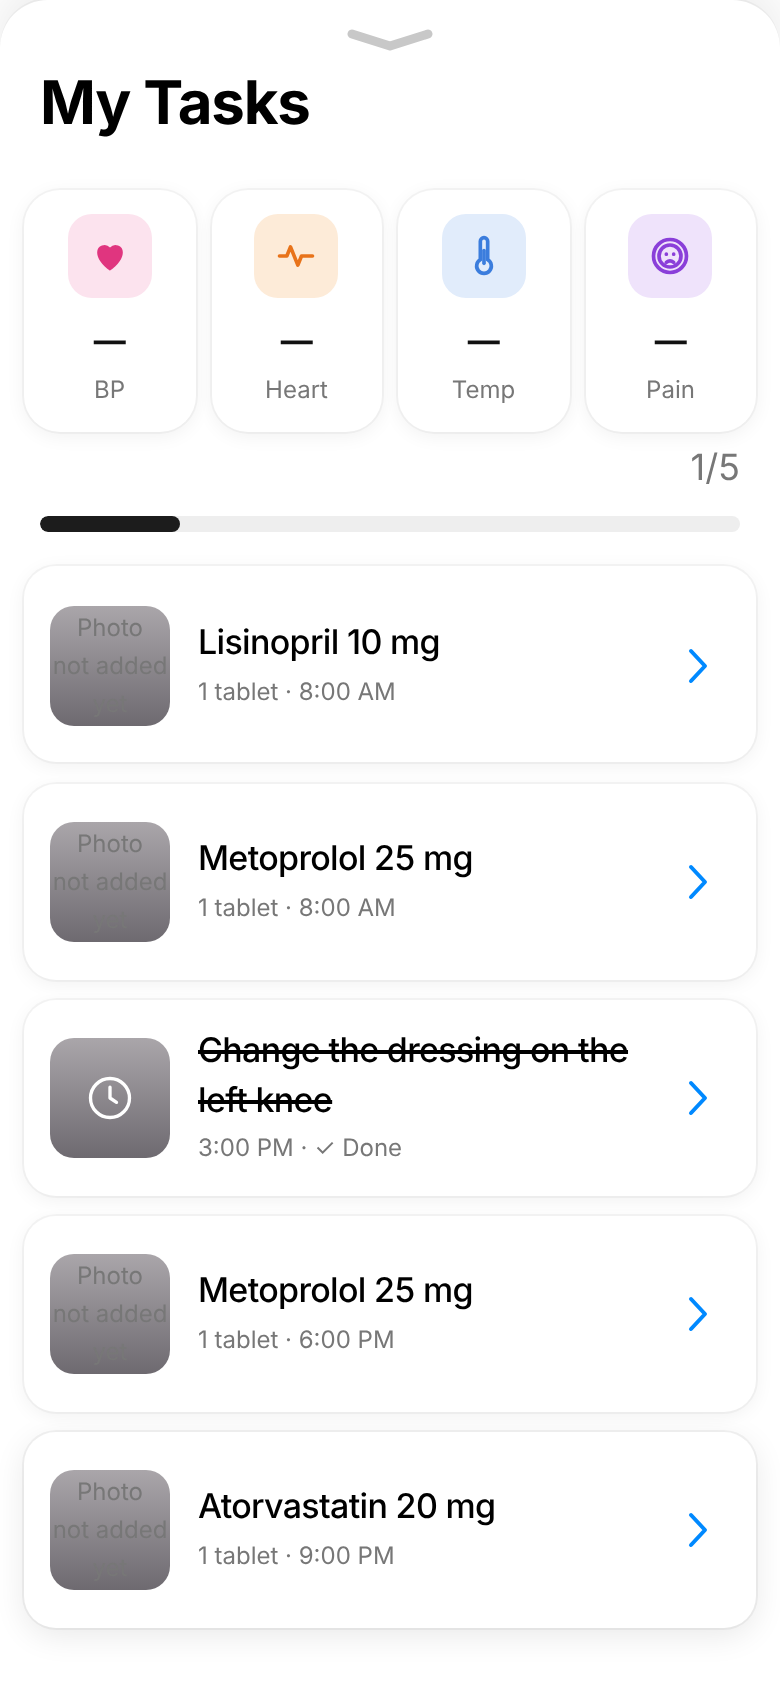
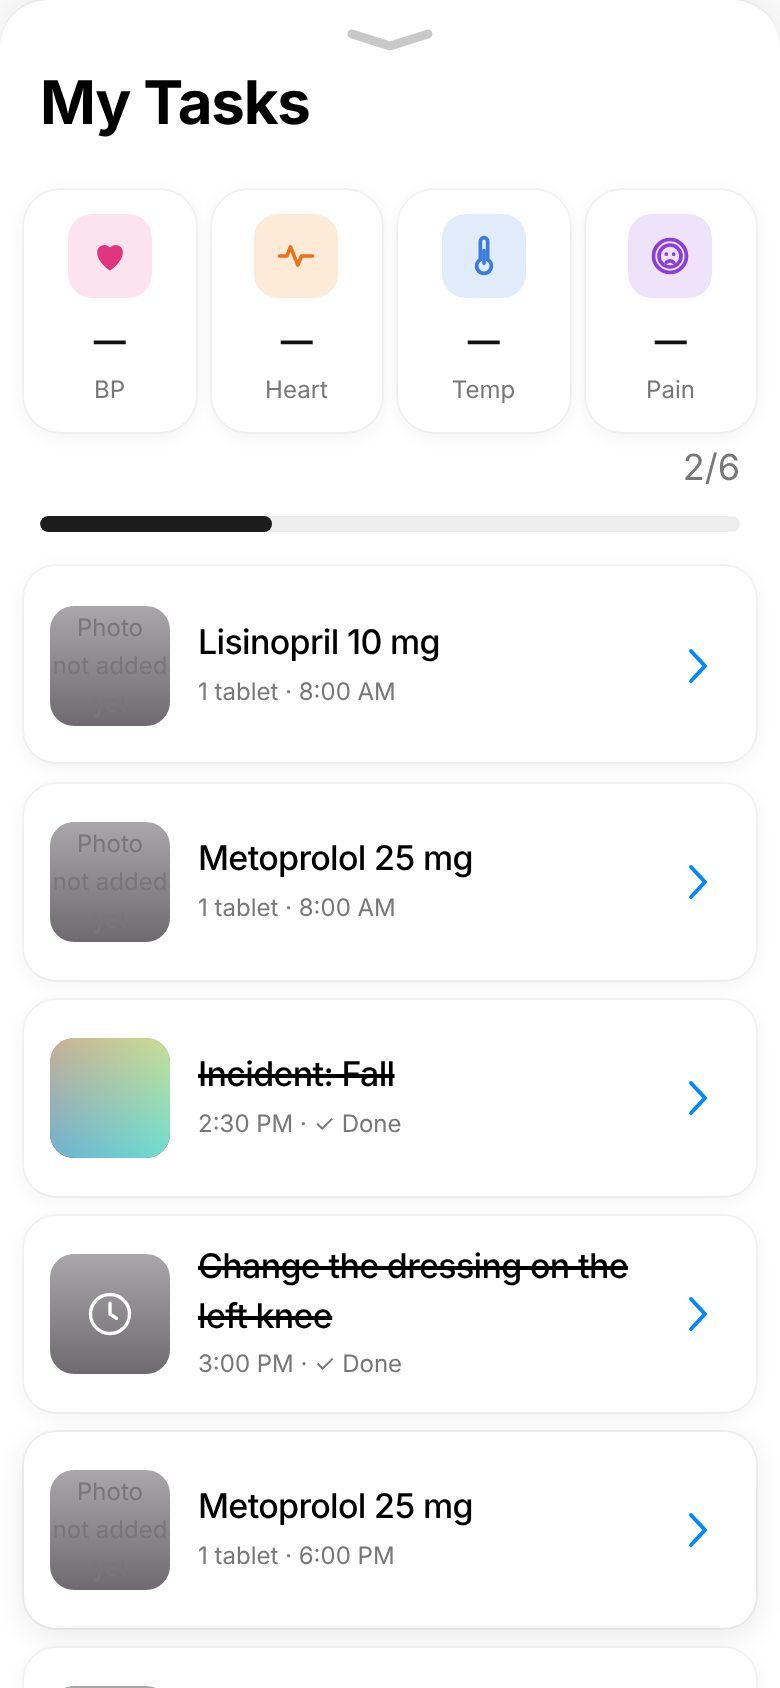
Step 5: + at the top right, witnesses, incidents in My Tasks
George's changes: the + sits at the top right of My Tasks with the title
on the left. The incident form gets Witnesses (name and optional phone,
added with a +), shown in the daily care report. A reported incident
shows in My Tasks on its day at its time, crossed off as done; tapping it
opens the report. Its photos are a post in Photos.

Claude-Session: https://claude.ai/code/session_01E2FP2TgKsd54SUu6FZRJ73

diff --git a/plus.js b/plus.js
@@ -1,9 +1,9 @@
-/* The + at the far left of the My Tasks title line, like Instagram's: a new task or an incident, for the family on screen
+/* The + at the top right of My Tasks, across from its title: a new task or an incident, for the family on screen
    (each family's plan is its own, so a caregiver on several families adds it to the patient they're looking at). Only people
    allowed to add tasks or report incidents see it; the server checks it too (server/permissions.js).
    A new task: what to do, an optional note and photo, the date and exact time, once or repeating (every day, chosen days or
    every week), from today up to one year ahead. It shows in My Tasks on its days at its time and is done on the Take page with
-   the same Done or Skip, note and photos. An incident: what happened, when, a note, photos and who was told, with Call 911 on
+   the same Done or Skip, note and photos. An incident: what happened, when, a note, photos, witnesses and who was told, with Call 911 on
    the form. Both show in the daily care report, numbered and time-stamped, with who added them. Uses the Take card's blocks. */
 const PLUS_PHOTOS=3,YEAR_AHEAD=365;
 const TASK_DAYS=['Sun','Mon','Tue','Wed','Thu','Fri','Sat'];
@@ -25,10 +25,13 @@ if(t.repeat==='daily')return 'Every day'+at+until;
 if(t.repeat==='weekly')return 'Every '+C.parseDate(t.date).toLocaleDateString('en-US',{weekday:'long'})+at+until;
 return [...(t.days||[])].sort().map(d=>TASK_DAYS[d]).join(', ')+at+until}
 
-/* Today's tasks from the +, at their time among the doses and visits. */
+/* Today's tasks from the +, at their time among the doses and visits, and each incident reported that day at the time it
+   happened, crossed off as done like a finished task. */
 const todayTasksBeforePlus=todayTasks;
+const clockOf=t=>{const d=new Date(t);return String(d.getHours()).padStart(2,'0')+':'+String(d.getMinutes()).padStart(2,'0')};
 todayTasks=function(list=items,day=today()){const tasks=todayTasksBeforePlus(list,day);
 for(const t of list.filter(i=>i.task&&taskOn(i,day))){const m=markOf(t,day,'task');tasks.push({item:t,key:'task',time:t.time||'',title:t.name,sub:t.note||'',state:m?m.kind:''})}
+for(const i of list.filter(i=>i.incident&&onDay(i.at,day)))tasks.push({item:i,key:'incident',time:clockOf(i.at),title:'Incident: '+i.name,sub:i.note||'',state:'done'});
 return tasks.sort((a,b)=>(a.time||'99')<(b.time||'99')?-1:(a.time||'99')>(b.time||'99')?1:0)};
 /* A task's photo on its card and Take page, or the clock when it has none. */
 const taskPhoto=i=>i.photos&&i.photos.length?`<div class="product-photo">${proofImg(i.photos[0])}</div>`:`<div class="product-photo today-icon">${icon('clock')}</div>`;
@@ -47,18 +50,20 @@ reportEntries=function(list=items,day=today(),vitalsLog){const out=reportEntries
 for(const t of list.filter(i=>i.task)){const by=t.by?['Added by '+t.by]:[];
 if(onDay(t.addedAt,day))out.push({title:'New task: '+t.name,at:t.addedAt,note:t.note||'',details:[repeatText(t),...by],name:t.name,photos:t.photos||[]});
 for(const m of (t.marks||[]).filter(m=>m.key==='task'&&m.day===day&&m.at))out.push({title:`${t.name} (${t.time?shortClock(t.time)+' task':'task'})${m.kind==='skipped'?' skipped':''}`,at:m.at,note:m.note||'',details:by,name:t.name,photos:m.photos||[]})}
-for(const i of list.filter(i=>i.incident&&onDay(i.at,day)))out.push({title:'Incident: '+i.name,at:i.at,note:i.note||'',details:[i.told?'Told: '+i.told:'',i.by?'Reported by '+i.by:''].filter(Boolean),name:'Incident: '+i.name,photos:i.photos||[]});
+for(const i of list.filter(i=>i.incident&&onDay(i.at,day)))out.push({title:'Incident: '+i.name,at:i.at,note:i.note||'',details:[(i.witnesses||[]).length?'Witnesses: '+i.witnesses.map(w=>w.name+(w.phone?' '+w.phone:'')).join(', '):'',i.told?'Told: '+i.told:'',i.by?'Reported by '+i.by:''].filter(Boolean),name:'Incident: '+i.name,photos:i.photos||[]});
 return out.sort((x,y)=>new Date(x.at)-new Date(y.at))};
 
 /* The + itself: the Take card's round +. Someone who may do both picks one first; otherwise it opens the one they may do. */
 const plusButton=()=>mayAddTask()||mayReport()?'<button class="take-add tasks-plus" id="tasks-plus" aria-label="Add a task or report an incident">+</button>':'';
+/* Tapping an incident in My Tasks shows it in today's daily care report. */
+document.addEventListener('click',e=>{const b=e.target.closest('[data-today-start$="|incident"]');if(!b)return;e.stopImmediatePropagation();reportTab='today';setTasksOpen(false);view='overview';render();window.scrollTo(0,0)},true);
 document.addEventListener('click',e=>{if(!e.target.closest('#tasks-plus'))return;e.stopPropagation();go(mayAddTask()&&mayReport()?'plus':mayAddTask()?'task-new':'incident-new')});
 
 /* What's being written, kept while a photo is added or the page redraws. */
 
 let plusDraft=null;
 const blankTaskDraft=()=>({what:'',note:'',date:today(),time:'',repeat:'once',days:[],until:C.shift(today(),YEAR_AHEAD),photos:[],busy:false});
-const blankIncidentDraft=()=>({kind:'',date:today(),time:hmNow(),note:'',told:'',photos:[],busy:false});
+const blankIncidentDraft=()=>({kind:'',date:today(),time:hmNow(),note:'',told:'',witnesses:[],photos:[],busy:false});
 const plusPhotos=(d,id)=>`<section class="take-block"><div class="take-line"><h2>Photo <span>${d.photos.length} of ${PLUS_PHOTOS}</span></h2>${d.photos.length>=PLUS_PHOTOS?'':`<label class="take-add" for="${id}" aria-label="Add a photo">+</label>`}</div><input type="file" id="${id}" accept="image/*" multiple hidden>${proofRow(d.photos,true)}<p class="take-muted">Optional. Up to ${PLUS_PHOTOS} photos.</p></section>`;
 const plusField=(label,html)=>`<section class="take-block"><h2>${label}</h2>${html}</section>`;
 const plusRadios=(name,list,value)=>`<div class="plus-choice">${list.map(([v,l])=>`<label><input type="radio" name="${name}" value="${v}"${v===value?' checked':''}><span>${l}</span></label>`).join('')}</div>`;
@@ -79,6 +84,7 @@ ${plusField('What happened',plusRadios('kind',INCIDENTS,d.kind))}
 ${plusField('When',`<div class="plus-when"><input name="date" type="date" max="${today()}" value="${esc(d.date)}" aria-label="Date"><input name="time" type="time" value="${esc(d.time)}" aria-label="Time"></div>`)}
 ${plusField('Note',`<textarea name="note" maxlength="1000" placeholder="What happened, and what was done">${esc(d.note)}</textarea>`)}
 ${plusPhotos(d,'plus-photo')}
+${plusWitnesses(d)}
 ${plusField('Who was told',`<input name="told" maxlength="200" autocomplete="off" value="${esc(d.told)}" placeholder="Dr. Patel, Ann">`)}
 <button class="primary plus-save"${d.busy?' disabled':''}>Report the incident</button></form></section>`}
 Object.assign(menuPages,{plus:plusPage,'task-new':taskNewPage,'incident-new':incidentNewPage});
@@ -86,7 +92,11 @@ menuViews.push('plus','task-new','incident-new');
 const goBeforePlus=go;go=function(v){if(v==='task-new'&&(!plusDraft||!('what'in plusDraft)))plusDraft=blankTaskDraft();if(v==='incident-new'&&(!plusDraft||!('kind'in plusDraft)))plusDraft=blankIncidentDraft();if(v==='overview'||v==='plus')plusDraft=null;return goBeforePlus(v)};
 
 /* Typing keeps the draft; a new repeat choice shows its days or its last day. */
-function readPlusForm(f){const d=plusDraft;for(const k of ['what','note','date','time','until','told','kind','repeat'])if(f.elements[k]){const el=f.elements[k];d[k]=el instanceof RadioNodeList?el.value:el.value}
+/* Witnesses: a name and an optional phone each; the + on the line adds one, × takes it off. */
+const plusWitnesses=d=>`<section class="take-block"><div class="take-line"><h2>Witnesses <span>${d.witnesses.length||'None yet'}</span></h2><button type="button" class="take-add tasks-plus" data-witness-add aria-label="Add a witness">+</button></div>${d.witnesses.map((w,n)=>`<div class="plus-witness"><input name="witness-name" maxlength="80" autocomplete="off" value="${esc(w.name)}" placeholder="Name" aria-label="Witness ${n+1} name"><input name="witness-phone" type="tel" inputmode="tel" maxlength="30" autocomplete="off" value="${esc(w.phone)}" placeholder="Phone (optional)" aria-label="Witness ${n+1} phone"><button type="button" class="take-shot-x" data-witness-remove="${n}" aria-label="Remove witness ${n+1}">×</button></div>`).join('')}<p class="take-muted">Anyone who saw what happened.</p></section>`;
+document.addEventListener('click',e=>{const b=e.target.closest('[data-witness-add],[data-witness-remove]');if(!b||!plusDraft||!plusDraft.witnesses)return;readPlusForm(b.closest('form'));
+if(b.dataset.witnessRemove!==undefined)plusDraft.witnesses.splice(Number(b.dataset.witnessRemove),1);else{plusDraft.witnesses.push({name:'',phone:''});render();[...document.querySelectorAll('[name="witness-name"]')].pop()?.focus();return}render()});
+function readPlusForm(f){const d=plusDraft;if(d.witnesses){const names=[...f.querySelectorAll('[name="witness-name"]')],phones=[...f.querySelectorAll('[name="witness-phone"]')];d.witnesses=names.map((n,i)=>({name:n.value,phone:phones[i]?.value||''}))}for(const k of ['what','note','date','time','until','told','kind','repeat'])if(f.elements[k]){const el=f.elements[k];d[k]=el instanceof RadioNodeList?el.value:el.value}
 if(f.querySelector('[name="day"]'))d.days=[...f.querySelectorAll('[name="day"]:checked')].map(c=>Number(c.value))}
 document.addEventListener('input',e=>{const f=e.target.closest('.plus-form');if(f&&plusDraft)readPlusForm(f)});
 document.addEventListener('change',async e=>{const f=e.target.closest('.plus-form');if(!f||!plusDraft)return;
@@ -106,8 +116,8 @@ const problem=task?taskProblem(d):incidentProblem(d);if(problem){toast(problem);
 d.busy=true;render();const photos=(await uploadPlus(d.photos,task?'task':'incident')).filter(Boolean),by=markedBy(),added=new Date().toISOString();
 if(task){const t={id:crypto.randomUUID(),task:true,name:d.what.trim(),...(d.note.trim()?{note:d.note.trim()}:{}),...(photos.length?{photos}:{}),date:d.date,time:d.time,repeat:d.repeat,...(d.repeat==='days'?{days:[...d.days].sort()}:{}),...(d.repeat!=='once'?{until:d.until}:{}),...(by?{by}:{}),addedAt:added,marks:[]};
   items.push(t);plusDraft=null;view='overview';tasksOpen=taskOn(t,today());save();render();window.scrollTo(0,0);toast(`Task added: ${repeatText(t)}.`);return}
-const kind=INCIDENTS.find(([k])=>k===d.kind),at=new Date(d.date+'T'+d.time).toISOString();
-items.push({id:crypto.randomUUID(),incident:true,kind:kind[0],name:kind[1],at,...(d.note.trim()?{note:d.note.trim()}:{}),...(d.told.trim()?{told:d.told.trim()}:{}),...(photos.length?{photos}:{}),...(by?{by}:{}),addedAt:added});
+const kind=INCIDENTS.find(([k])=>k===d.kind),witnesses=d.witnesses.map(w=>({name:w.name.trim(),...(w.phone.trim()?{phone:w.phone.trim()}:{})})).filter(w=>w.name),at=new Date(d.date+'T'+d.time).toISOString();
+items.push({id:crypto.randomUUID(),incident:true,kind:kind[0],name:kind[1],at,...(d.note.trim()?{note:d.note.trim()}:{}),...(d.told.trim()?{told:d.told.trim()}:{}),...(witnesses.length?{witnesses}:{}),...(photos.length?{photos}:{}),...(by?{by}:{}),addedAt:added});
 plusDraft=null;reportTab=d.date===today()?'today':d.date===C.shift(today(),-1)?'previous':reportTab;view='overview';tasksOpen=false;save();render();window.scrollTo(0,0);toast('Incident reported. It’s in the daily care report.')});
 
 /* The forms aren't open to people who can't use them. */

diff --git a/home.js b/home.js
@@ -44,12 +44,12 @@ function helpNote(i,phone){const doc=i.prescriber||{},ph=i.pharmacy||{};return `
 function whenToCallHTML(){const groups=whenToCall();return `<h2 class="call-head">When to call</h2>${groups.length?`<ol class="radar-list call-list">${groups.map(g=>`<li><strong>${esc(g.head)}</strong>${g.signs.map(t=>`<small>${esc(t)}</small>`).join('')}<small>${callLinks(g)}</small></li>`).join('')}</ol>`:`<p class="today-empty">${esc(NO_SIGNS)}</p><ol class="radar-list call-list"><li><small>${call911}</small></li></ol>`}`}
 /* One card per row, like a list of locks: the bottle's photo, the medication and its dose, and Start at the end. The whole card
    opens the Take page (today.js); a visit opens its own card. Refill steps and pick-ups live on Your refills, not here. */
-function todayThumb(x){if(x.item.appt)return apptPhoto(x.item);if(x.key==='task')return taskPhoto(x.item);return x.slot||x.key==='pickup'||x.key.startsWith('refill:')?medPhoto(x.item):`<div class="product-photo today-icon">${icon('clock')}</div>`}
+function todayThumb(x){if(x.item.appt)return apptPhoto(x.item);if(x.key==='task'||x.key==='incident')return taskPhoto(x.item);return x.slot||x.key==='pickup'||x.key.startsWith('refill:')?medPhoto(x.item):`<div class="product-photo today-icon">${icon('clock')}</div>`}
 /* No Start button: a blue arrow at the end, like a list of rows. A marked dose says so on its second line. */
 const TODAY_ARROW='<svg class="today-arrow" viewBox="0 0 10 18" aria-hidden="true"><path d="m1.5 1.5 7 7.5-7 7.5"/></svg>';
 function todayRow(x){const mark=x.state==='done'?'✓ Done':x.state==='skipped'?'Skipped':'',line=[x.slot?x.item.dose:'',x.time?clockText(x.time):'',mark].filter(Boolean).join(' · ');
 return `<li class="today-row${x.state?' is-'+x.state:''}"><button class="today-card" data-today-start="${esc(x.item.id+'|'+x.key)}"><span class="today-thumb">${todayThumb(x)}</span><span class="today-what"><strong>${esc(x.title)}</strong>${line?`<small>${esc(line)}</small>`:''}</span>${TODAY_ARROW}</button></li>`}
-const homeTasks=(day=today())=>todayTasks(items,day).filter(x=>x.slot||x.key==='appt'||x.key==='task');
+const homeTasks=(day=today())=>todayTasks(items,day).filter(x=>x.slot||['appt','task','incident'].includes(x.key));
 /* Vital signs on Home, in four colored tiles: blood pressure, heart rate, temperature and pain. Tapping one opens a small form
    under them; the last reading is kept with the reminder settings, so it follows the account. */
 let vitalsOpen=false;

diff --git a/home.css b/home.css
@@ -192,9 +192,9 @@ body.not-home #main>.page-heading{margin-top:0}
 /* My Tasks: a finished task keeps its name as written, dark, with a line through it. The daily report has no lines, so it
    reads cleanly. */
 .tasks-sheet .home-today .today-row.is-done .today-what strong{color:#000;font-weight:500;text-decoration:line-through;text-decoration-thickness:1.5px}
-/* The + at the far left of the My Tasks title line (plus.js): the Take card's round +. Its forms use the Take card's grey
+/* The + at the top right of My Tasks, across from its title (plus.js): the Take card's round +. Its forms use the Take card's grey
    blocks, with white fields like its note. */
-.tasks-title{display:flex;align-items:center;gap:14px;margin:6px 0 0}
+.tasks-title{display:flex;align-items:center;justify-content:space-between;gap:14px;margin:6px 0 0}
 .tasks-top .tasks-title h2{margin:0}
 .tasks-plus{border:0;padding:0;cursor:pointer}
 .plus-form input:not([type=radio]):not([type=checkbox]){width:100%;min-width:0;border:0;border-radius:14px;background:#fff;padding:12px;font:inherit;font-size:15px;color:#111}
@@ -205,3 +205,6 @@ body.not-home #main>.page-heading{margin-top:0}
 .plus-until{display:flex;align-items:center;gap:12px;margin-top:10px;font-size:15px;color:#111}.plus-until span{flex:none}
 .plus-911 p+p{margin-top:4px}.plus-911 .flow-text-link{font-weight:600}
 .plus-form .plus-save{width:100%;margin-top:10px}
+.plus-witness{position:relative;display:grid;grid-template-columns:1fr 1fr;gap:8px;margin-top:10px;padding-right:34px}
+.plus-witness .take-shot-x{top:50%;right:0;transform:translateY(-50%);background:#1c1c1c}
+@media(max-width:650px){.plus-witness{grid-template-columns:1fr}}

diff --git a/today.js b/today.js
@@ -54,7 +54,7 @@ try{for(const f of files)takeDraft.photos.push(await readPhoto(f));if(e.target.f
    handle up to open it and down to make it small, or tap the handle. */
 let tasksOpen=false;
 const TASKS_CHEVRON='<svg viewBox="0 0 44 12" aria-hidden="true"><path d="M3 9 22 3l19 6"/></svg>';
-const tasksSheet=inner=>`<section class="tasks-sheet${tasksOpen?' open':''}" id="tasks-sheet" aria-label="My Tasks"><div class="tasks-top" id="tasks-top"><button class="tasks-handle" id="tasks-handle" aria-expanded="${tasksOpen}" aria-controls="tasks-body" aria-label="${tasksOpen?'Make My Tasks smaller':'Open My Tasks'}">${TASKS_CHEVRON}</button><div class="tasks-title">${typeof plusButton==='function'?plusButton():''}<h2>My Tasks</h2></div></div><div class="tasks-body" id="tasks-body">${inner}</div></section>`;
+const tasksSheet=inner=>`<section class="tasks-sheet${tasksOpen?' open':''}" id="tasks-sheet" aria-label="My Tasks"><div class="tasks-top" id="tasks-top"><button class="tasks-handle" id="tasks-handle" aria-expanded="${tasksOpen}" aria-controls="tasks-body" aria-label="${tasksOpen?'Make My Tasks smaller':'Open My Tasks'}">${TASKS_CHEVRON}</button><div class="tasks-title"><h2>My Tasks</h2>${typeof plusButton==='function'?plusButton():''}</div></div><div class="tasks-body" id="tasks-body">${inner}</div></section>`;
 const galleryBeforeTake=gallery;
 gallery=function(){if(view!=='overview')return galleryBeforeTake();const el=document.createElement('div');el.innerHTML=galleryBeforeTake();
 const tasks=el.querySelector(':scope>.home-today');if(tasks)tasks.remove();

diff --git a/docs/care-team-plan.md b/docs/care-team-plan.md
@@ -96,9 +96,9 @@ Admins can change anyone's role at any time (Settings → People → tap their n
 **Needs:** steps 2 and 3.
 **Build:**
 - Everything here belongs to the family on screen: a caregiver on several families adds a task or reports an incident for the patient they're looking at, and it shows only in that family's My Tasks and report.
-- A round + at the far left of the "My Tasks" title line, like Instagram's, only for people allowed to add tasks or report incidents.
+- A round + at the top right of My Tasks, with the "My Tasks" title staying top left, only for people allowed to add tasks or report incidents (moved from the far left at George's request on 2026-10-22).
 - **New task:** what to do, an optional note and photo, the date and exact time, once or repeating (daily, chosen days, weekly), from today up to one year ahead. It shows in My Tasks at its time and is done with the existing Done or Skip buttons, with notes and photos as now.
-- **Report an incident:** what happened (fall, refused medication, injury, behaviour, other), when, a note, photos, and who was told. Call 911 sits on the form.
+- **Report an incident:** what happened (fall, refused medication, injury, behaviour, other), when, a note, photos, witnesses (each a name and an optional phone, added with a +), and who was told. Call 911 sits on the form.
 - Both show in the daily care report, numbered and time-stamped, with who added them.
 **Done when:** an admin schedules a task for next Monday at 3:00 PM and it appears in the caregiver's My Tasks then; an incident shows in the report straight away; a caregiver on two families sees each family's tasks only under that family.
 
